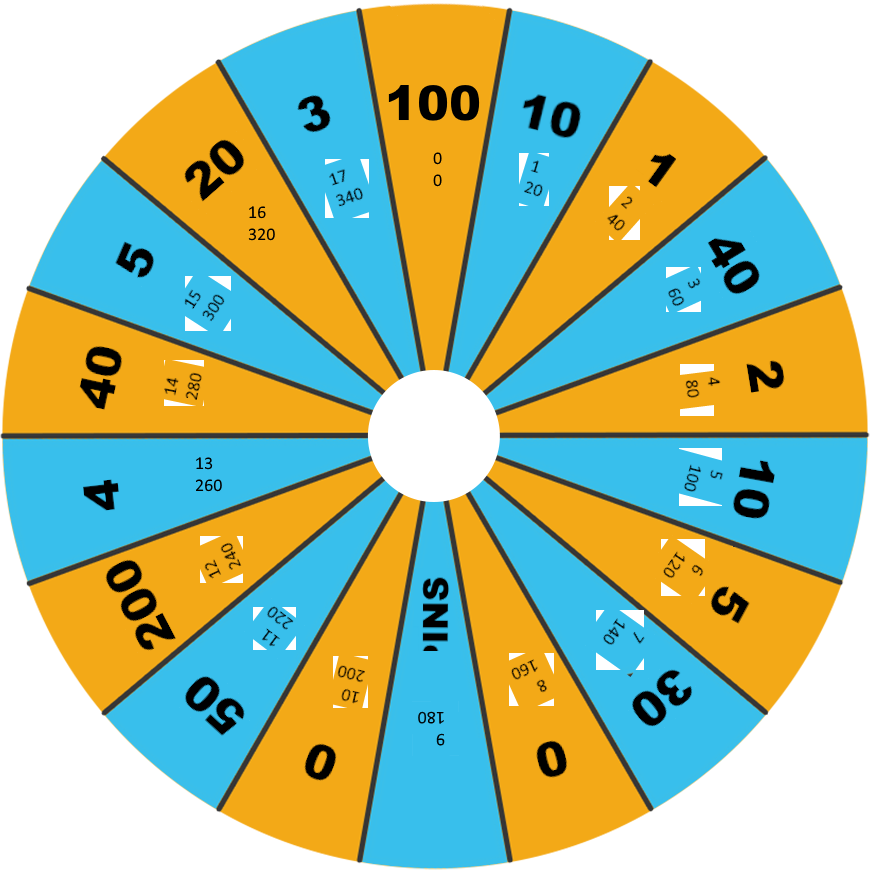
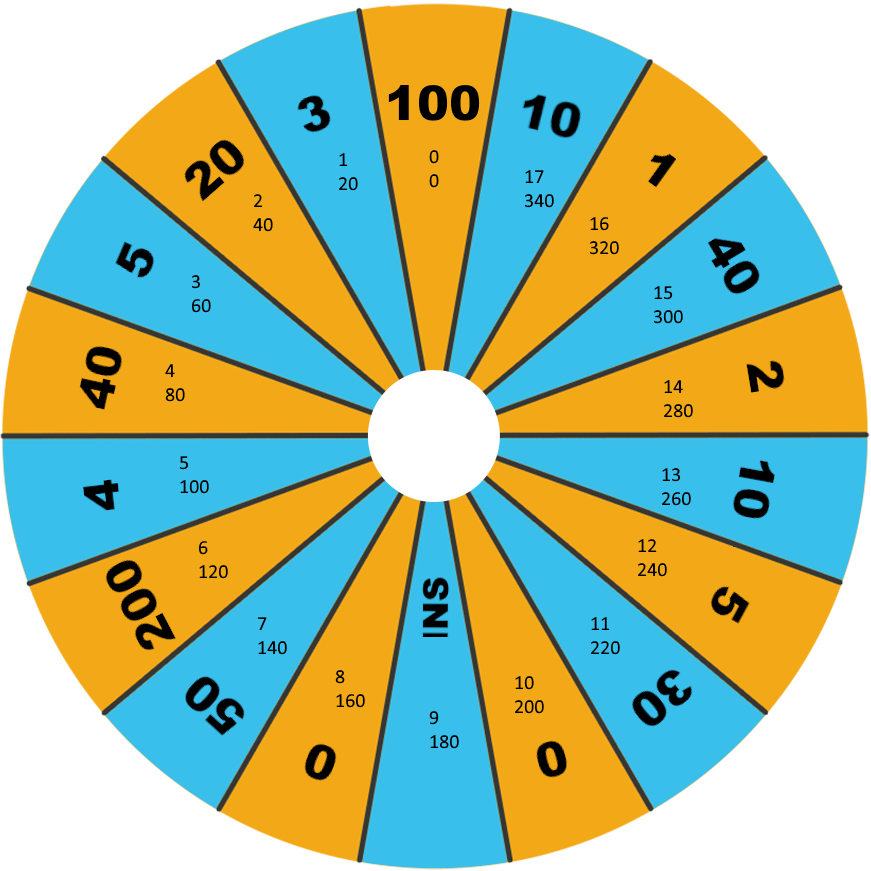
Angle and sectors corrected

diff --git a/start.js b/start.js
@@ -1,7 +1,8 @@
 const params = {
     rotation: 0,
-    speed: 5,
+    speed: 3,
     angle: 0,
+    sectorsCount: 18,
     sectors: [
         0,
         14,
@@ -22,21 +23,27 @@ start = () => {
     let index = 0;
 
     let arrow = document.getElementById("arrow");
-    let containerWidth = document.getElementById("wheel-container").style.width
-    let arrowWidth = arrow.style.width
-    arrow.style.marginLeft = containerWidth - arrowWidth / 2
+    let containerWidth = document.getElementById("wheel-container").style.width;
+    let arrowWidth = arrow.style.width;
+    arrow.style.marginLeft = containerWidth - arrowWidth / 2;
 
     document.getElementById("startButton").addEventListener("click", () => {
         rotate(index);
-        index++
+        index++;
     })
 }
 
 rotate = (index) => {
-    // params.angle = (params.sectors[index] + 2)/ 18 * (180 + params.angle)
-    params.angle = params.sectors[index] / 18 * 180 + params.speed * 360
+    let sectorAngle =  params.sectors[index] / params.sectorsCount * 360;
+    let wheelSpeed = params.speed * 360;
 
-    console.log(index, params.sectors[index], params.angle)
+    params.angle = sectorAngle + wheelSpeed
+    console.log(` index: ${index},\n Sector: ${params.sectors[index]},\n Sector angle: ${sectorAngle}`);
+    
+    gsap.to("#wheel", {
+        rotation: 0,
+        duration: 0.01
+    });
 
     gsap.to("#wheel", {
         rotation: params.angle,
